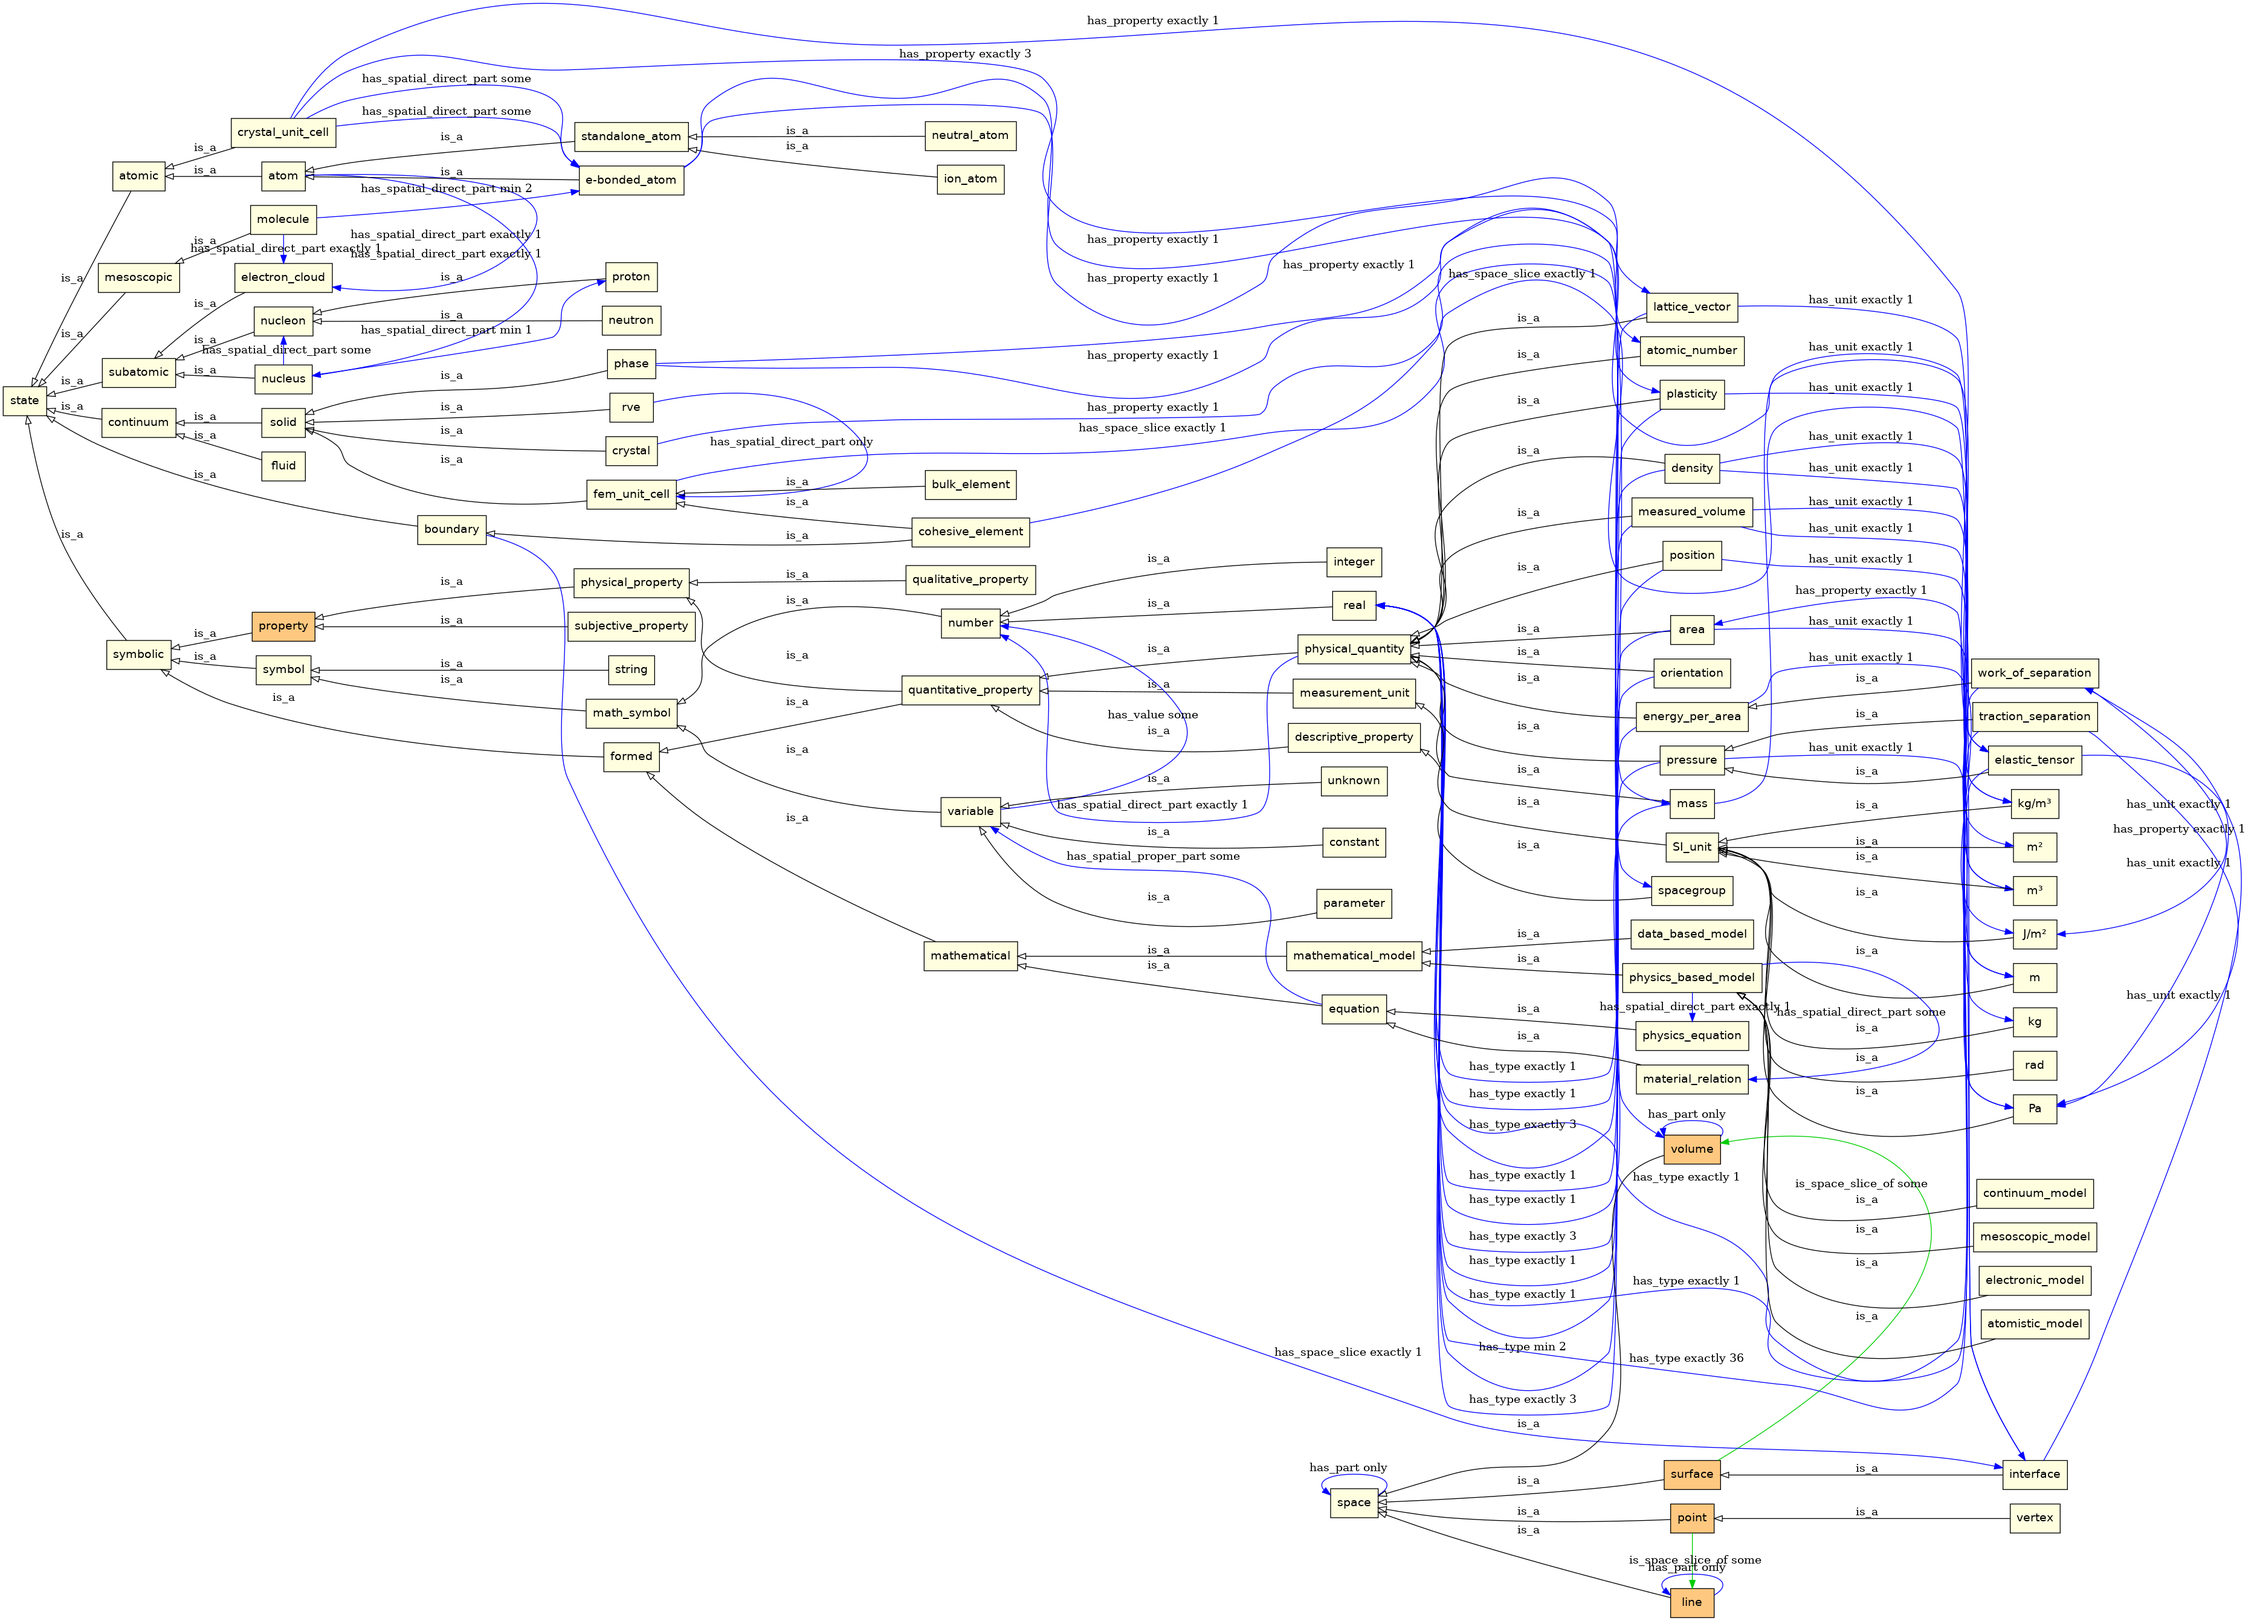
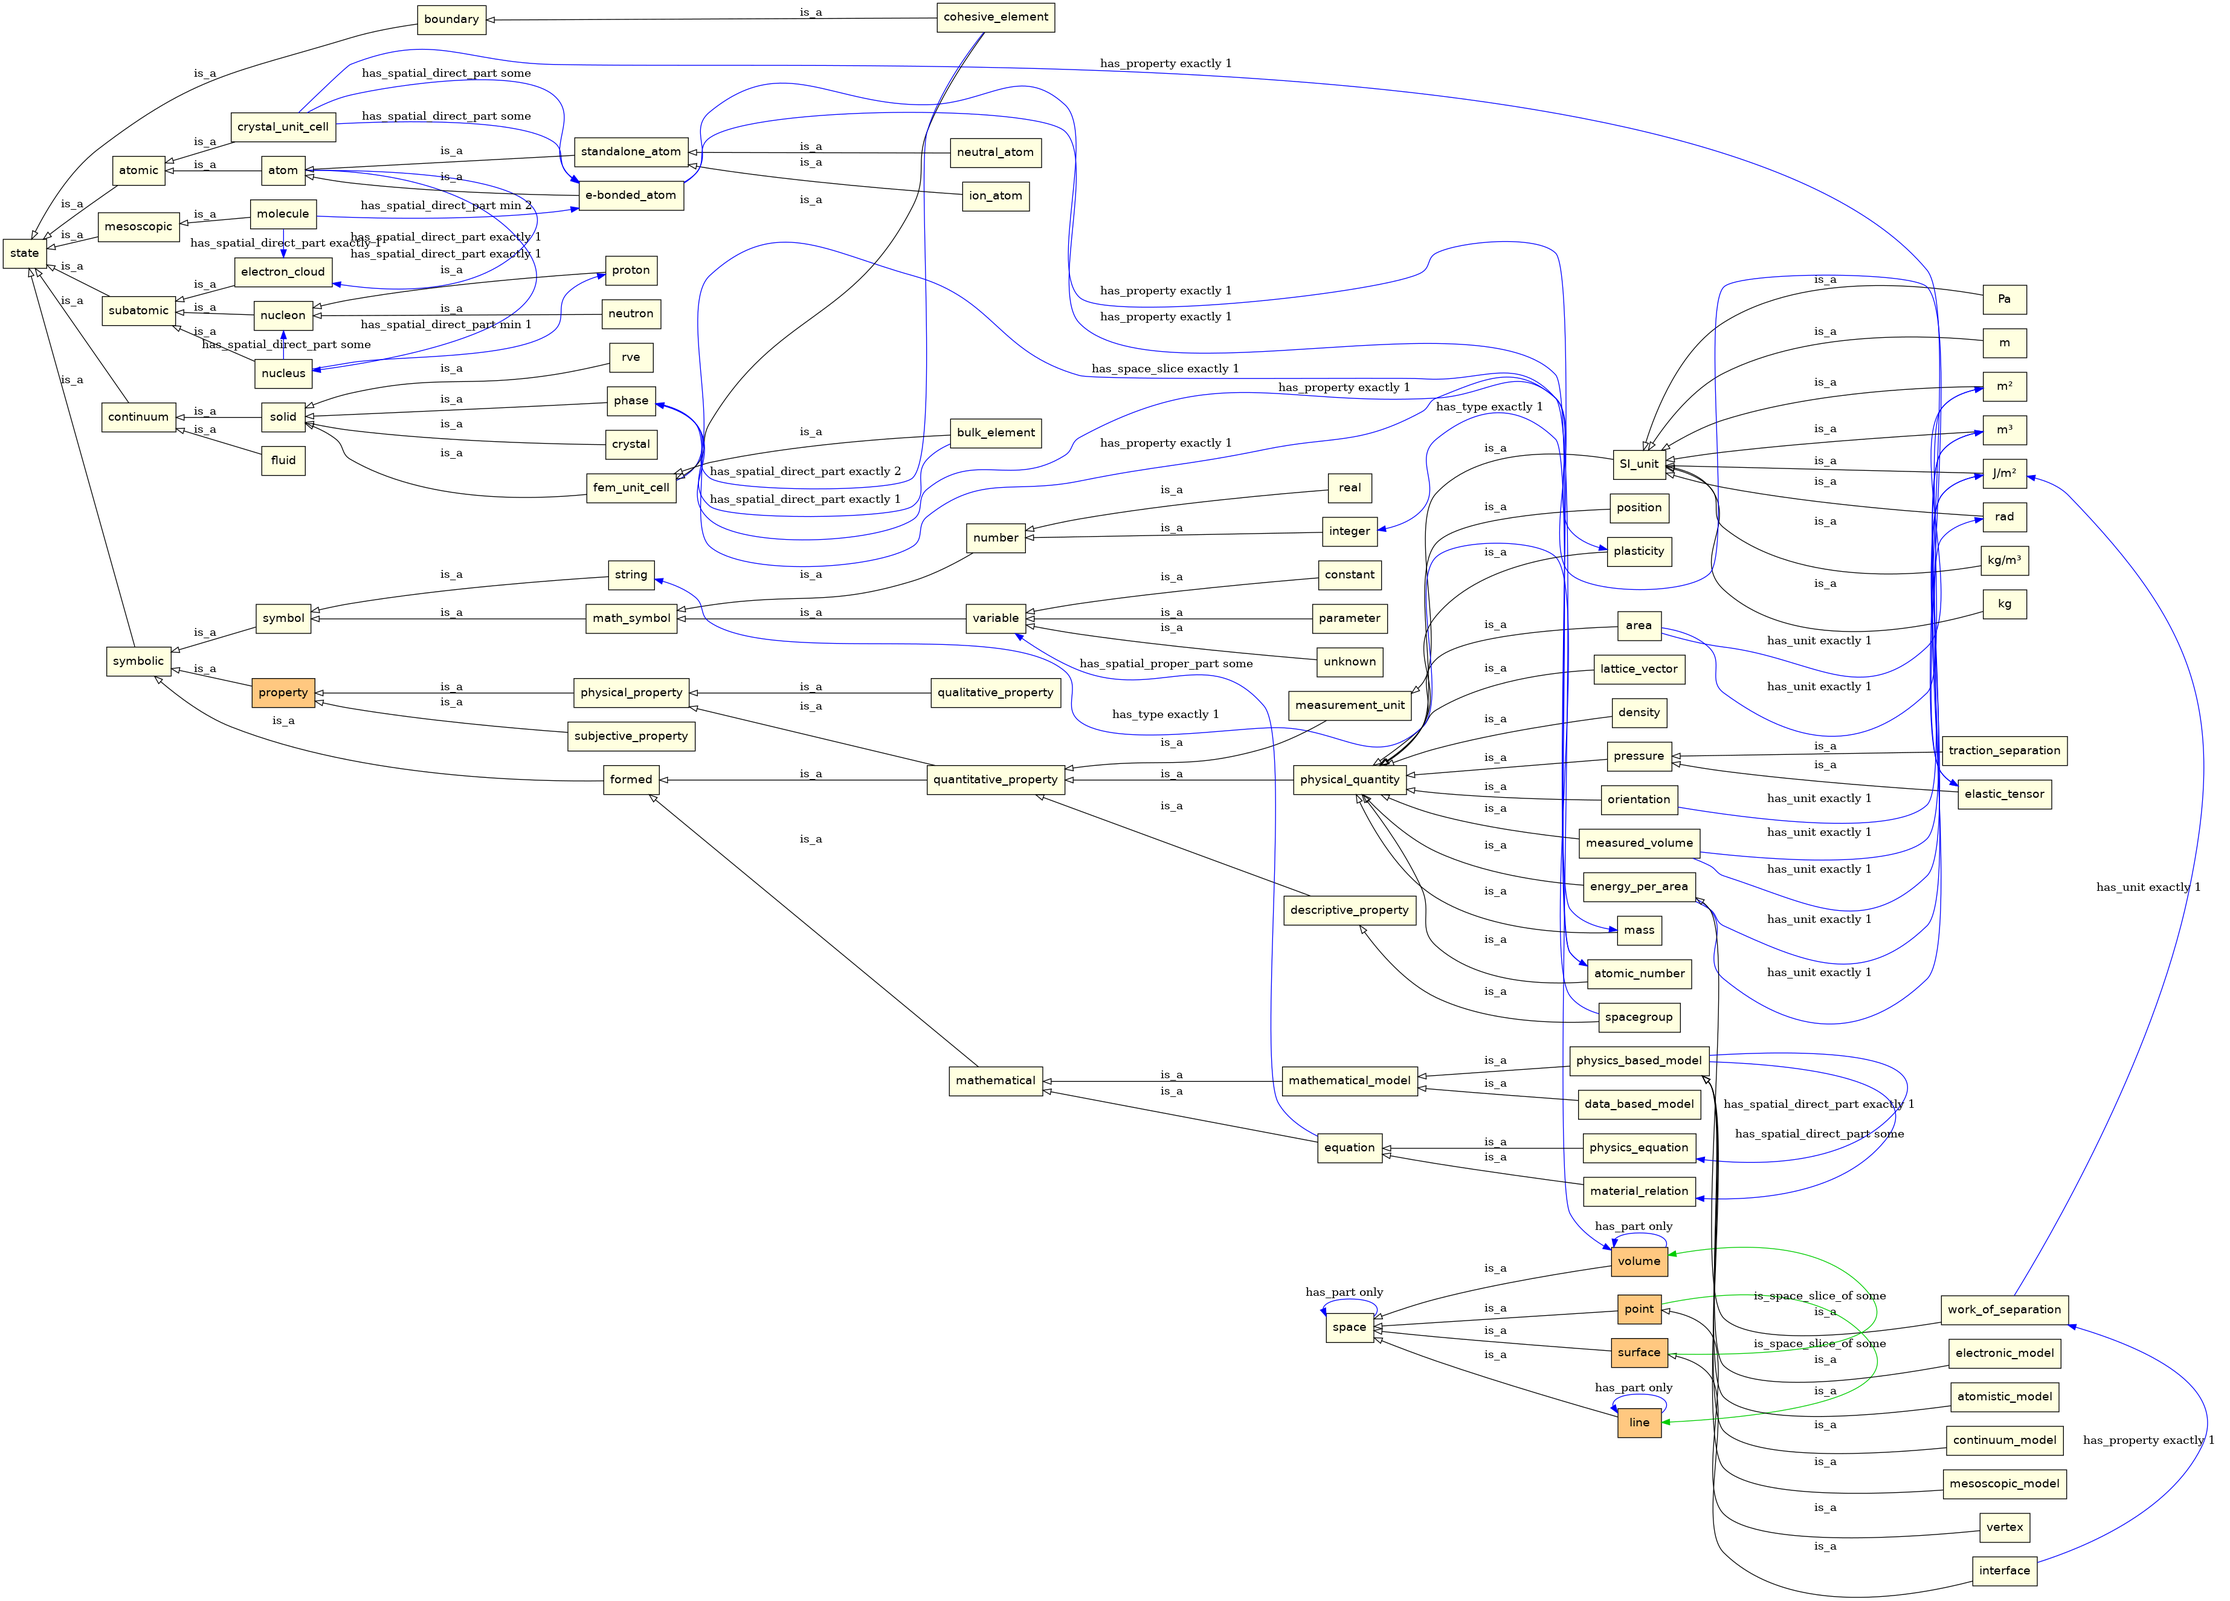
Updated visualisation of the user case material entities

diff --git a/demo/vertical/case_ontology.py b/demo/vertical/case_ontology.py
@@ -363,7 +363,7 @@ graph.write_png('figs/properties+materials.png')
 # Material
 #items = [emmo.atomic, emmo.continuum, onto.boundary]
 items = [emmo.state] + materials
-leafs = ['symbolic', 'subatomic', 'mesoscopic']
+leafs = ['symbolic', 'subatomic', 'mesoscopic', 'standalone_atom']
 graph = onto.get_dot_graph(items, leafs=leafs, relations=True,
                            parents=False, style='uml')
 graph.write_png('figs/materials.png')
